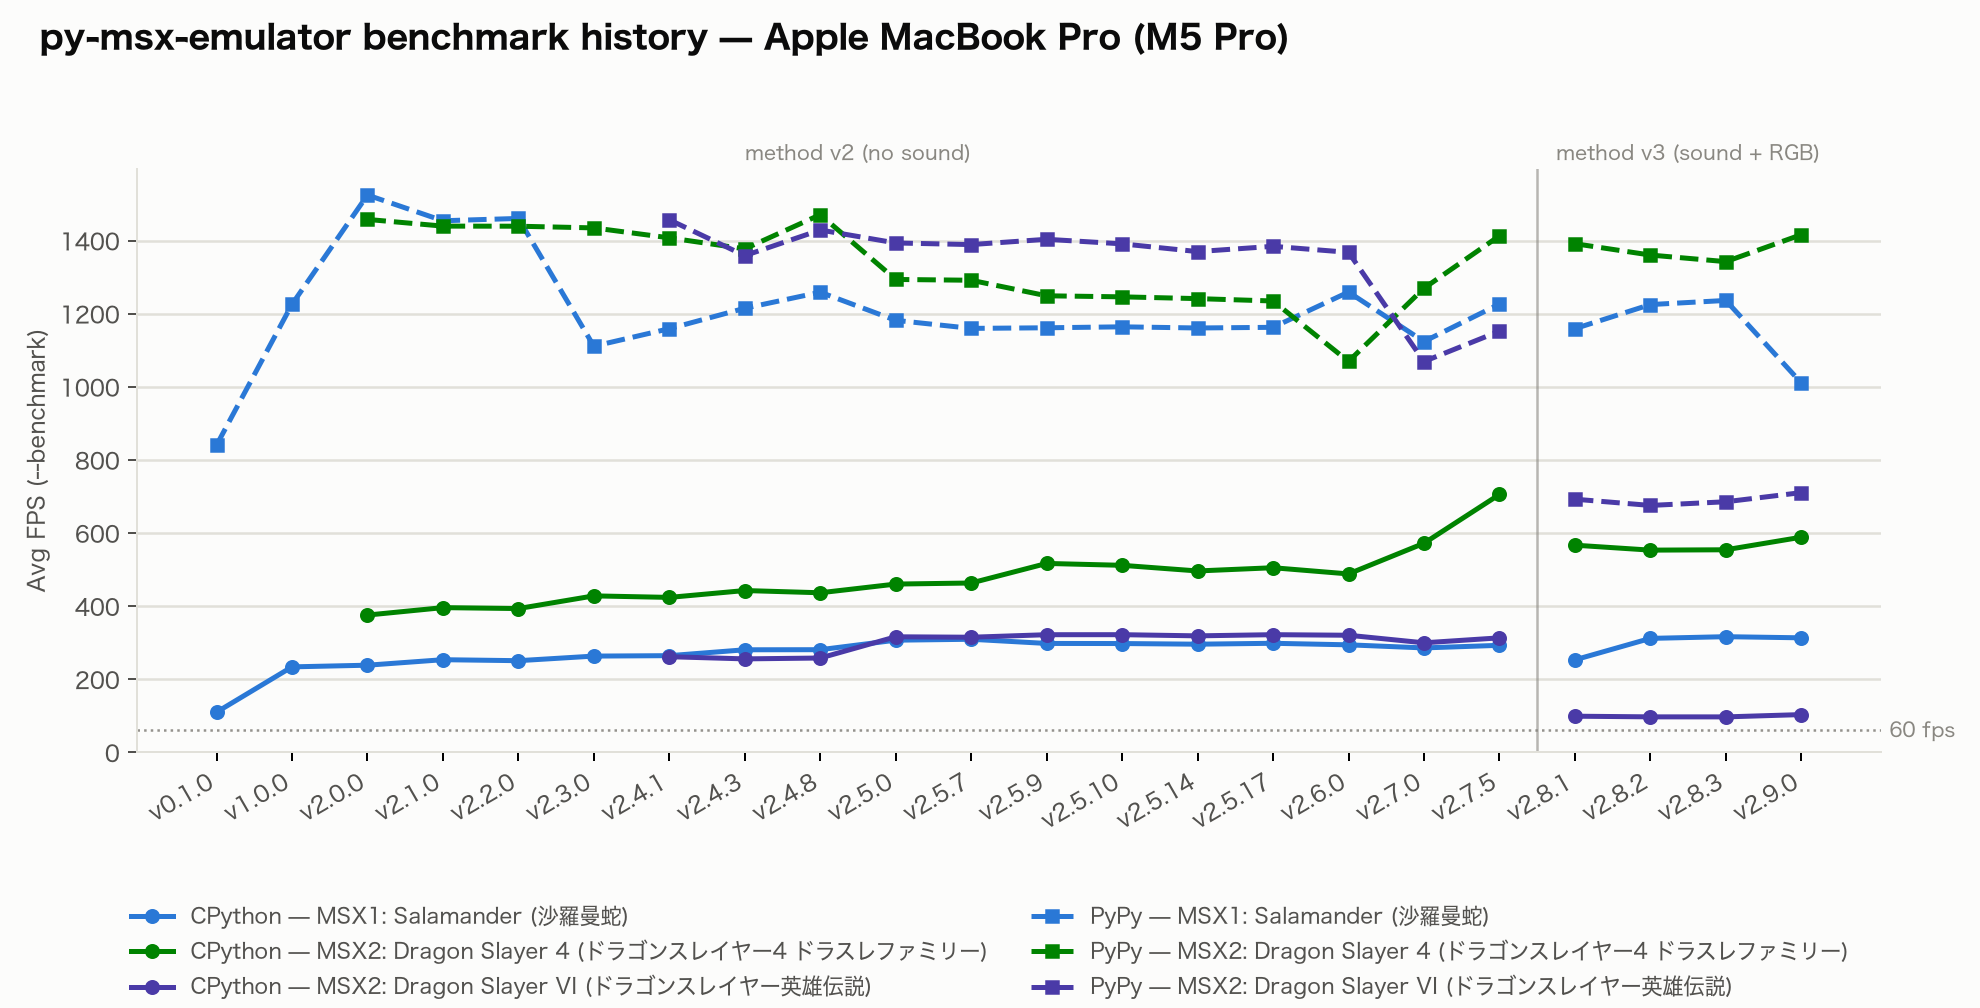
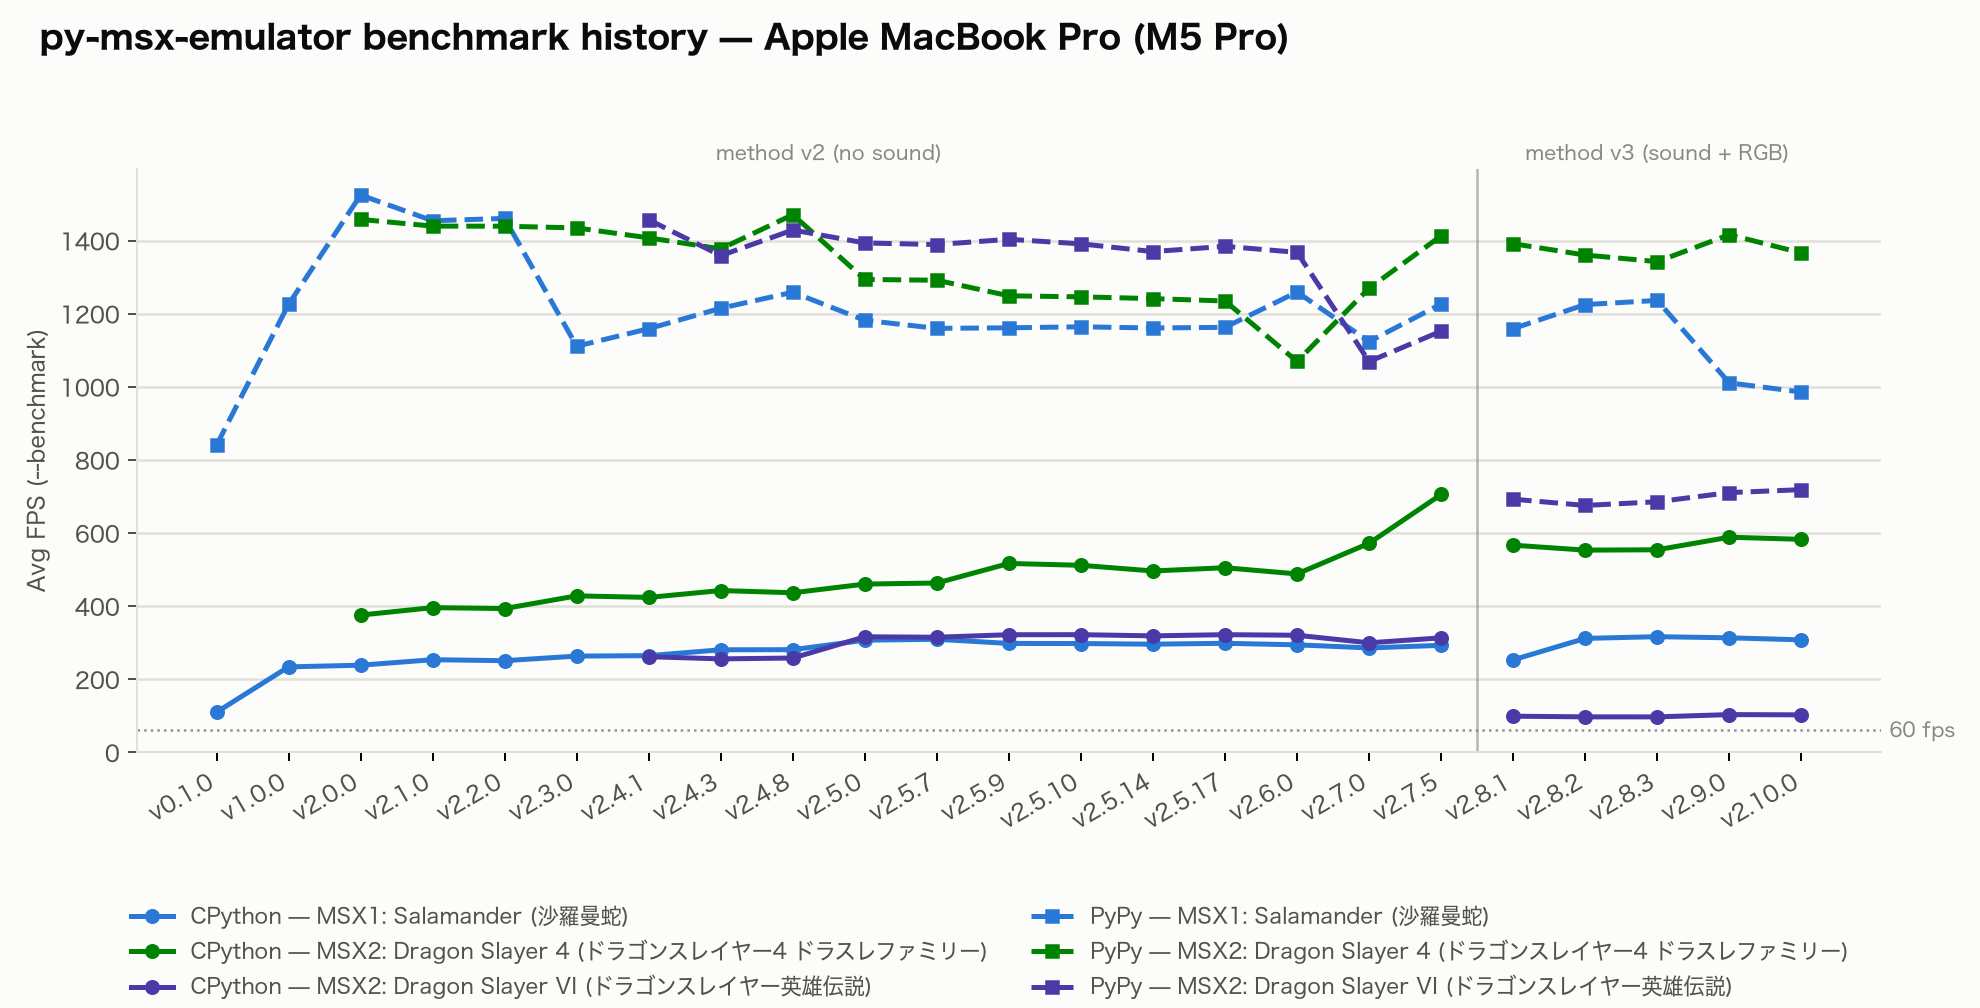
docs(readme): update the benchmark results for v2.10.0
Replace the Performance table with the v2.10.0 runs on the M5 Pro and
the Raspberry Pi 5, update the derived claims (PyPy gain on the FM-PAC
title, the PyPy range on the Raspberry Pi 5), state that no cassette
tape is mounted during the runs, and redraw the history charts through
v2.10.0. Add the two benchmark logs.

diff --git a/README_ja.md b/README_ja.md
@@ -414,32 +414,32 @@ The VDP SHALL maintain 16 KB of video RAM as a `bytearray` of length 0x4000. All
 
 v2.8.0 から、ヘッドレスの実行でもコアが毎フレーム音源を合成し、`--benchmark` は毎フレームを RGB に変換します。v2.7.8 までの `--benchmark` はどちらも行っていなかったので、下の数値は v2.7.8 以前の数値と比べられません。RGB 変換は、前のフレームまでに変換した行を使い回すので、ほとんどのフレームでは CPython でも PyPy でも負荷が小さくなります。
 
-ランタイムとゲームの組み合わせごとに、10000 フレームの計測を 10 回行い、最速と最遅を除いた 8 回の平均をスコアにしました。
+ランタイムとゲームの組み合わせごとに、10000 フレームの計測を 10 回行い、最速と最遅を除いた 8 回の平均をスコアにしました。計測中、カセットテープは入れていません（デッキは空です）。
 
 | プラットフォーム | ランタイム | ゲーム | 平均 FPS（`--benchmark`） | 60 fps 目標との比 |
 | --- | --- | --- | --- | --- |
-| Apple MacBook Pro（M5 Pro） | CPython 3.12.13 | MSX1: 沙羅曼蛇（CPU+TMS9918+SCC） | 313.21 | 約 5.2 倍 |
-| Apple MacBook Pro（M5 Pro） | CPython 3.12.13 | MSX2: ドラゴンスレイヤーIV（CPU+V9938+PSG） | 588.45 | 約 9.8 倍 |
-| Apple MacBook Pro（M5 Pro） | CPython 3.12.13 | MSX2: ドラゴンスレイヤー英雄伝説（CPU+V9938+FDC+FMPAC） | 103.20 | 約 1.7 倍 |
-| Apple MacBook Pro（M5 Pro） | PyPy 7.3.19（Python 3.10.16） | MSX1: 沙羅曼蛇（CPU+TMS9918+SCC） | 1010.60 | 約 16.8 倍 |
-| Apple MacBook Pro（M5 Pro） | PyPy 7.3.19（Python 3.10.16） | MSX2: ドラゴンスレイヤーIV（CPU+V9938+PSG） | 1415.97 | 約 23.6 倍 |
-| Apple MacBook Pro（M5 Pro） | PyPy 7.3.19（Python 3.10.16） | MSX2: ドラゴンスレイヤー英雄伝説（CPU+V9938+FDC+FMPAC） | 710.43 | 約 11.8 倍 |
-| Raspberry Pi 5 | CPython 3.12.13 | MSX1: 沙羅曼蛇（CPU+TMS9918+SCC） | 79.70 | 約 1.3 倍 |
-| Raspberry Pi 5 | CPython 3.12.13 | MSX2: ドラゴンスレイヤーIV（CPU+V9938+PSG） | 157.39 | 約 2.6 倍 |
-| Raspberry Pi 5 | CPython 3.12.13 | MSX2: ドラゴンスレイヤー英雄伝説（CPU+V9938+FDC+FMPAC） | 28.03 | 約 0.47 倍 |
-| Raspberry Pi 5 | PyPy 7.3.19（Python 3.10.16） | MSX1: 沙羅曼蛇（CPU+TMS9918+SCC） | 200.75 | 約 3.3 倍 |
-| Raspberry Pi 5 | PyPy 7.3.19（Python 3.10.16） | MSX2: ドラゴンスレイヤーIV（CPU+V9938+PSG） | 297.58 | 約 5.0 倍 |
-| Raspberry Pi 5 | PyPy 7.3.19（Python 3.10.16） | MSX2: ドラゴンスレイヤー英雄伝説（CPU+V9938+FDC+FMPAC） | 154.20 | 約 2.6 倍 |
+| Apple MacBook Pro（M5 Pro） | CPython 3.12.13 | MSX1: 沙羅曼蛇（CPU+TMS9918+SCC） | 307.66 | 約 5.1 倍 |
+| Apple MacBook Pro（M5 Pro） | CPython 3.12.13 | MSX2: ドラゴンスレイヤーIV（CPU+V9938+PSG） | 582.56 | 約 9.7 倍 |
+| Apple MacBook Pro（M5 Pro） | CPython 3.12.13 | MSX2: ドラゴンスレイヤー英雄伝説（CPU+V9938+FDC+FMPAC） | 102.50 | 約 1.7 倍 |
+| Apple MacBook Pro（M5 Pro） | PyPy 7.3.19（Python 3.10.16） | MSX1: 沙羅曼蛇（CPU+TMS9918+SCC） | 985.60 | 約 16.4 倍 |
+| Apple MacBook Pro（M5 Pro） | PyPy 7.3.19（Python 3.10.16） | MSX2: ドラゴンスレイヤーIV（CPU+V9938+PSG） | 1366.11 | 約 22.8 倍 |
+| Apple MacBook Pro（M5 Pro） | PyPy 7.3.19（Python 3.10.16） | MSX2: ドラゴンスレイヤー英雄伝説（CPU+V9938+FDC+FMPAC） | 718.51 | 約 12.0 倍 |
+| Raspberry Pi 5 | CPython 3.12.13 | MSX1: 沙羅曼蛇（CPU+TMS9918+SCC） | 79.88 | 約 1.3 倍 |
+| Raspberry Pi 5 | CPython 3.12.13 | MSX2: ドラゴンスレイヤーIV（CPU+V9938+PSG） | 155.55 | 約 2.6 倍 |
+| Raspberry Pi 5 | CPython 3.12.13 | MSX2: ドラゴンスレイヤー英雄伝説（CPU+V9938+FDC+FMPAC） | 27.97 | 約 0.47 倍 |
+| Raspberry Pi 5 | PyPy 7.3.19（Python 3.10.16） | MSX1: 沙羅曼蛇（CPU+TMS9918+SCC） | 222.86 | 約 3.7 倍 |
+| Raspberry Pi 5 | PyPy 7.3.19（Python 3.10.16） | MSX2: ドラゴンスレイヤーIV（CPU+V9938+PSG） | 285.31 | 約 4.8 倍 |
+| Raspberry Pi 5 | PyPy 7.3.19（Python 3.10.16） | MSX2: ドラゴンスレイヤー英雄伝説（CPU+V9938+FDC+FMPAC） | 152.18 | 約 2.5 倍 |
 
-計測した組み合わせのすべてが 60 fps に届くわけではありません。余裕が最も小さいのは Raspberry Pi 5 の CPython でドラゴンスレイヤー英雄伝説を動かした場合で、約 0.47 倍と目標を下回ります。対象タイトルの中では、FM-PAC（YM2413）の合成が 1 フレームあたりの負荷として最も重くなります。PyPy にすると、同じ組み合わせで約 2.6 倍になります。Raspberry Pi 5 と CPython のほかの組み合わせは目標に届き、沙羅曼蛇は約 1.3 倍、ドラゴンスレイヤーIV は約 2.6 倍です。
+計測した組み合わせのすべてが 60 fps に届くわけではありません。余裕が最も小さいのは Raspberry Pi 5 の CPython でドラゴンスレイヤー英雄伝説を動かした場合で、約 0.47 倍と目標を下回ります。対象タイトルの中では、FM-PAC（YM2413）の合成が 1 フレームあたりの負荷として最も重くなります。PyPy にすると、同じ組み合わせで約 2.5 倍になります。Raspberry Pi 5 と CPython のほかの組み合わせは目標に届き、沙羅曼蛇は約 1.3 倍、ドラゴンスレイヤーIV は約 2.6 倍です。
 
-Raspberry Pi 5 の CPython で FM-PAC を使うタイトルを動かすと、60 fps を下回ります。Raspberry Pi 5 より遅いハードウェアや、もっと重いタイトルでも同じです。そのときゲームは、実際のフレームレートに比例してスローモーションになります。音声も劣化します（クリックや無音）。原因は、音声のサンプルをフレームごとに作るのに、音声デバイスは常に 44100 Hz で消費することにあります。PyPy3 はそのまま置き換えて使えます。Raspberry Pi 5 では、CPython の約 2〜5.5 倍の処理速度が出ます（上の表を参照）。Raspberry Pi のような非力な環境で余裕を持たせたいなら PyPy を勧めます。
+Raspberry Pi 5 の CPython で FM-PAC を使うタイトルを動かすと、60 fps を下回ります。Raspberry Pi 5 より遅いハードウェアや、もっと重いタイトルでも同じです。そのときゲームは、実際のフレームレートに比例してスローモーションになります。音声も劣化します（クリックや無音）。原因は、音声のサンプルをフレームごとに作るのに、音声デバイスは常に 44100 Hz で消費することにあります。PyPy3 はそのまま置き換えて使えます。Raspberry Pi 5 では、CPython の約 1.8〜5.4 倍の処理速度が出ます（上の表を参照）。Raspberry Pi のような非力な環境で余裕を持たせたいなら PyPy を勧めます。
 
 PyPy の数値は、OS のスケジューリングなどのためか、CPython より実行ごとのばらつきが大きくなります。目安として見てください。
 
 ### ベンチマーク推移
 
-v0.1.0 から v2.9.0 までの平均 FPS（`--benchmark`）の推移を、プラットフォームごとに示します。実線が CPython、破線が PyPy です。v2.7.5 までは、上と同じコールドブートの方法から音声合成を除いた方法（v2.7.8 までの方法）で計測しました。v2.8.1 からは上の方法で計測しました。2 つの方法の数値は比べられないので、方法が変わるところで線を切っています。
+v0.1.0 から v2.10.0 までの平均 FPS（`--benchmark`）の推移を、プラットフォームごとに示します。実線が CPython、破線が PyPy です。v2.7.5 までは、上と同じコールドブートの方法から音声合成を除いた方法（v2.7.8 までの方法）で計測しました。v2.8.1 からは上の方法で計測しました。2 つの方法の数値は比べられないので、方法が変わるところで線を切っています。
 
 ![Apple MacBook Pro（M5 Pro）でのベンチマーク推移](assets/bench-history-m5pro.png)
 

diff --git a/README.md b/README.md
@@ -408,32 +408,32 @@ The `--benchmark` CLI flag gives these measurements. It does a headless, unthrot
 
 Since v2.8.0, the core synthesizes the sound chips every frame, also in headless runs, and `--benchmark` converts every frame to RGB. Up to v2.7.8, `--benchmark` did neither. Do not compare the numbers below with numbers from v2.7.8 or earlier. The RGB conversion reuses each row that it already converted for an earlier frame. On most frames it thus costs little, under PyPy as well as under CPython.
 
-For each (runtime, game) pair, the author measured 10 runs of 10000 frames each. The score is the average of the remaining 8 runs, after the removal of the fastest and the slowest run.
+For each (runtime, game) pair, the author measured 10 runs of 10000 frames each. The score is the average of the remaining 8 runs, after the removal of the fastest and the slowest run. No cassette tape is mounted (the deck is empty) during the runs.
 
 | Platform | Runtime | Game | Avg FPS (`--benchmark`) | vs. 60 fps target |
 | --- | --- | --- | --- | --- |
-| Apple MacBook Pro (M5 Pro) | CPython 3.12.13 | MSX1: Salamander (CPU+TMS9918+SCC) | 313.21 | ~5.2× |
-| Apple MacBook Pro (M5 Pro) | CPython 3.12.13 | MSX2: Dragon Slayer IV (CPU+V9938+PSG) | 588.45 | ~9.8× |
-| Apple MacBook Pro (M5 Pro) | CPython 3.12.13 | MSX2: Dragon Slayer VI - The Legend of Heroes (CPU+V9938+FDC+FMPAC) | 103.20 | ~1.7× |
-| Apple MacBook Pro (M5 Pro) | PyPy 7.3.19 (Python 3.10.16) | MSX1: Salamander (CPU+TMS9918+SCC) | 1010.60 | ~16.8× |
-| Apple MacBook Pro (M5 Pro) | PyPy 7.3.19 (Python 3.10.16) | MSX2: Dragon Slayer IV (CPU+V9938+PSG) | 1415.97 | ~23.6× |
-| Apple MacBook Pro (M5 Pro) | PyPy 7.3.19 (Python 3.10.16) | MSX2: Dragon Slayer VI - The Legend of Heroes (CPU+V9938+FDC+FMPAC) | 710.43 | ~11.8× |
-| Raspberry Pi 5 | CPython 3.12.13 | MSX1: Salamander (CPU+TMS9918+SCC) | 79.70 | ~1.3× |
-| Raspberry Pi 5 | CPython 3.12.13 | MSX2: Dragon Slayer IV (CPU+V9938+PSG) | 157.39 | ~2.6× |
-| Raspberry Pi 5 | CPython 3.12.13 | MSX2: Dragon Slayer VI - The Legend of Heroes (CPU+V9938+FDC+FMPAC) | 28.03 | ~0.47× |
-| Raspberry Pi 5 | PyPy 7.3.19 (Python 3.10.16) | MSX1: Salamander (CPU+TMS9918+SCC) | 200.75 | ~3.3× |
-| Raspberry Pi 5 | PyPy 7.3.19 (Python 3.10.16) | MSX2: Dragon Slayer IV (CPU+V9938+PSG) | 297.58 | ~5.0× |
-| Raspberry Pi 5 | PyPy 7.3.19 (Python 3.10.16) | MSX2: Dragon Slayer VI - The Legend of Heroes (CPU+V9938+FDC+FMPAC) | 154.20 | ~2.6× |
+| Apple MacBook Pro (M5 Pro) | CPython 3.12.13 | MSX1: Salamander (CPU+TMS9918+SCC) | 307.66 | ~5.1× |
+| Apple MacBook Pro (M5 Pro) | CPython 3.12.13 | MSX2: Dragon Slayer IV (CPU+V9938+PSG) | 582.56 | ~9.7× |
+| Apple MacBook Pro (M5 Pro) | CPython 3.12.13 | MSX2: Dragon Slayer VI - The Legend of Heroes (CPU+V9938+FDC+FMPAC) | 102.50 | ~1.7× |
+| Apple MacBook Pro (M5 Pro) | PyPy 7.3.19 (Python 3.10.16) | MSX1: Salamander (CPU+TMS9918+SCC) | 985.60 | ~16.4× |
+| Apple MacBook Pro (M5 Pro) | PyPy 7.3.19 (Python 3.10.16) | MSX2: Dragon Slayer IV (CPU+V9938+PSG) | 1366.11 | ~22.8× |
+| Apple MacBook Pro (M5 Pro) | PyPy 7.3.19 (Python 3.10.16) | MSX2: Dragon Slayer VI - The Legend of Heroes (CPU+V9938+FDC+FMPAC) | 718.51 | ~12.0× |
+| Raspberry Pi 5 | CPython 3.12.13 | MSX1: Salamander (CPU+TMS9918+SCC) | 79.88 | ~1.3× |
+| Raspberry Pi 5 | CPython 3.12.13 | MSX2: Dragon Slayer IV (CPU+V9938+PSG) | 155.55 | ~2.6× |
+| Raspberry Pi 5 | CPython 3.12.13 | MSX2: Dragon Slayer VI - The Legend of Heroes (CPU+V9938+FDC+FMPAC) | 27.97 | ~0.47× |
+| Raspberry Pi 5 | PyPy 7.3.19 (Python 3.10.16) | MSX1: Salamander (CPU+TMS9918+SCC) | 222.86 | ~3.7× |
+| Raspberry Pi 5 | PyPy 7.3.19 (Python 3.10.16) | MSX2: Dragon Slayer IV (CPU+V9938+PSG) | 285.31 | ~4.8× |
+| Raspberry Pi 5 | PyPy 7.3.19 (Python 3.10.16) | MSX2: Dragon Slayer VI - The Legend of Heroes (CPU+V9938+FDC+FMPAC) | 152.18 | ~2.5× |
 
-Not every tested combination reaches the raw 60 fps target. The smallest margin is ~0.47×, below the target, on Raspberry Pi 5 with CPython and Dragon Slayer VI. The FM-PAC (YM2413) synthesis is the heaviest per-frame load of the target titles. PyPy increases the same case to ~2.6×. The other Raspberry Pi 5 and CPython combinations reach the target: Salamander at ~1.3× and Dragon Slayer IV at ~2.6×.
+Not every tested combination reaches the raw 60 fps target. The smallest margin is ~0.47×, below the target, on Raspberry Pi 5 with CPython and Dragon Slayer VI. The FM-PAC (YM2413) synthesis is the heaviest per-frame load of the target titles. PyPy increases the same case to ~2.5×. The other Raspberry Pi 5 and CPython combinations reach the target: Salamander at ~1.3× and Dragon Slayer IV at ~2.6×.
 
-A run goes below 60 fps in these cases: CPython on a Raspberry Pi 5 with an FM-PAC title, hardware slower than a Raspberry Pi 5, or a heavier title. The game then runs in slow motion, at a rate proportional to the achieved frame rate. Audio also degrades (clicks or silence). The cause is that the emulator generates samples per frame, but the audio device always consumes them at 44100 Hz. PyPy3 is a drop-in alternative. On the Raspberry Pi 5 it gives about 2 to 5.5 times the CPython throughput (see the table above). It is the recommended way to keep headroom on constrained hosts such as a Raspberry Pi.
+A run goes below 60 fps in these cases: CPython on a Raspberry Pi 5 with an FM-PAC title, hardware slower than a Raspberry Pi 5, or a heavier title. The game then runs in slow motion, at a rate proportional to the achieved frame rate. Audio also degrades (clicks or silence). The cause is that the emulator generates samples per frame, but the audio device always consumes them at 44100 Hz. PyPy3 is a drop-in alternative. On the Raspberry Pi 5 it gives about 1.8 to 5.4 times the CPython throughput (see the table above). It is the recommended way to keep headroom on constrained hosts such as a Raspberry Pi.
 
 The PyPy numbers vary more from run to run than the CPython numbers, probably because of OS scheduling and thermal throttling. Treat them as approximate.
 
 ### Benchmark history
 
-Avg FPS (`--benchmark`) from v0.1.0 through v2.9.0, one chart per platform. Solid lines are CPython and dashed lines are PyPy. Up to v2.7.5 the author measured with the same cold-boot method as above, but without sound synthesis (the method up to v2.7.8). From v2.8.1 the author measured with the method above. You cannot compare the numbers of the two methods, so the lines break where the method changes.
+Avg FPS (`--benchmark`) from v0.1.0 through v2.10.0, one chart per platform. Solid lines are CPython and dashed lines are PyPy. Up to v2.7.5 the author measured with the same cold-boot method as above, but without sound synthesis (the method up to v2.7.8). From v2.8.1 the author measured with the method above. You cannot compare the numbers of the two methods, so the lines break where the method changes.
 
 ![Benchmark history on Apple MacBook Pro (M5 Pro)](assets/bench-history-m5pro.png)
 
